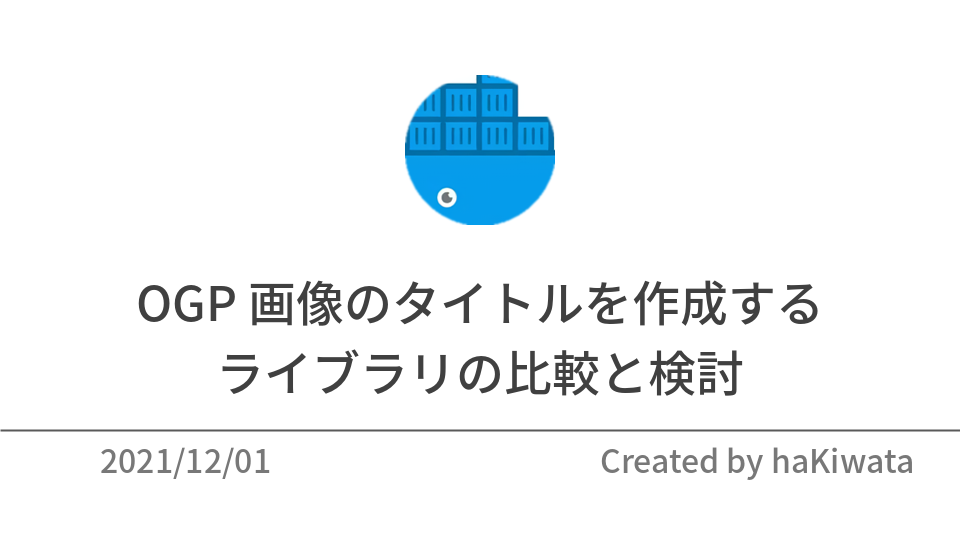
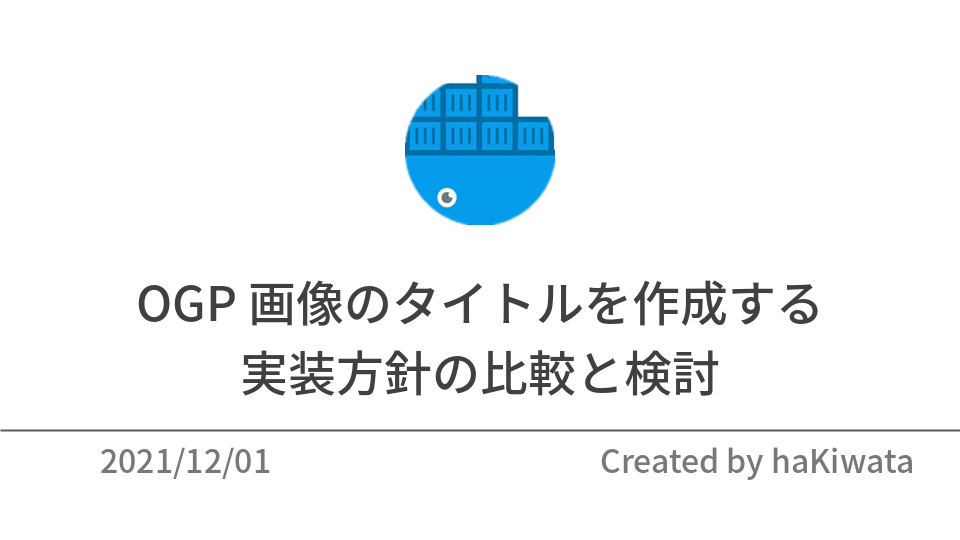
deploy: 28cf64bc0f5ebd8594af1927d249c6c6cfbd774a

Changed region(s): [[0.2188, 0.6519, 0.7812, 0.7407]]

diff --git a/post/20211201/index.html b/post/20211201/index.html
@@ -1,15 +1,15 @@
 <!doctype html><html lang=en><head><meta charset=utf-8><meta name=viewport content="width=device-width,initial-scale=1"><meta name=generator content="Hugo 0.83.1"><title>OGP 画像のタイトルを作成する
-ライブラリの比較と検討 - haKiwata</title><meta name=description content="概要  この自作ブログの OGP 画像は Python と GitHub Actions を使って自動生成するようになっています。ブログのタイトルを使用して良い感じに調整することで、OGP 画像のタイトルをつけます。しかし、先日投稿したブログの OGP 画像のタイトルのレイアウトが崩れていました。そこで、今回は OGP 画像のタイトルをつけるための実装方針を再度考え直します。そして、実装に必要なライブラリの比較と検討を行いたいと思います。  事の発端 (原因) とライブラリの比較と検討を行おうと思った背景  CyberAgent のコンテナ技術に関する勉強会に参加してきた の OGP 画像が意図した形になっていませんでした。以下の図 1 の画像が実際に生成されていた OPG 画像で、図 2 のような画像が生成されて欲しかった画像です。  図 1 タイトルのレイアウトがズレてしまった OGP 画像 図 2 タイトルのレイアウトが納得行く形の OGP 画像   図 2 では、タイトルの 2 行目が長くなりすぎてしまい、端の文字が切れてしまっています。そこでまず、現時点での OGP 画像を生成するためのロジックについて説明したいと思います。
+実装方針の比較と検討 - haKiwata</title><meta name=description content="概要  この自作ブログの OGP 画像は Python と GitHub Actions を使って自動生成するようになっています。ブログのタイトルを使用して良い感じに調整することで、OGP 画像のタイトルをつけます。しかし、先日投稿したブログの OGP 画像のタイトルのレイアウトが崩れていました。そこで、今回は OGP 画像のタイトルをつけるための実装方針を再度考え直します。そして、実装に必要なライブラリの比較と検討を行いたいと思います。  事の発端 (原因) とライブラリの比較と検討を行おうと思った背景  先日投稿したブログエントリの CyberAgent のコンテナ技術に関する勉強会に参加してきた の OGP 画像が意図した形になっていませんでした。以下の図 1 の画像が実際に生成されていた OPG 画像で、図 2 のような画像が生成されて欲しかった画像です。  図 1 タイトルのレイアウトがズレてしまった OGP 画像 図 2 タイトルのレイアウトが良い感じの形の OGP 画像   図 2 では、日本語の文脈的にもレイアウト的にも良い感じの箇所で改行されています。一方、図 1 では、タイトルの 2 行目が長くなりすぎてしまい、端の文字が切れてしまっています。そこでまず、現時点での OGP 画像を生成するためのロジックについて説明したいと思います。
   まず、タイトルがそれほど長くない場合 (30 文字以内) には、そのままタイトルを付けるようにしています。しかし、タイトルが 30 文字より大きくなると、改行処理を挟んでタイトルを付けるような実装になっています。この改行処理には、textwrap という Python の標準ライブラリを活用しています。つまり、タイトルが 30 文字以上の場合には、textwrap のアルゴリズムに従ってタイトルの分割処理が行われます。その分割処理によって、改行させてタイトルを付けます。
   これに加えて、Hugo のフロントマターに追加するフラグに応じた改行処理も実装されています。Hugo のフロントマターのタイトルの箇所に改行用のフラグ (\n) を追加すると、それを起点に改行された OGP 画像が生成されます。つまり、手動でタイトルの改行箇所を決めることができます。"><link rel="shortcut icon" href=https://hakiwata.jp/img/images/favicon.ico><link rel=stylesheet href=https://hakiwata.jp/css/ui.css><link rel=stylesheet href=https://hakiwata.jp/css/main.css><link rel=stylesheet href="https://fonts.googleapis.com/css?family=Fira+Mono|Lato|Raleway"><meta property="og:title" content="OGP 画像のタイトルを作成する
-ライブラリの比較と検討"><meta property="og:description" content="概要  この自作ブログの OGP 画像は Python と GitHub Actions を使って自動生成するようになっています。ブログのタイトルを使用して良い感じに調整することで、OGP 画像のタイトルをつけます。しかし、先日投稿したブログの OGP 画像のタイトルのレイアウトが崩れていました。そこで、今回は OGP 画像のタイトルをつけるための実装方針を再度考え直します。そして、実装に必要なライブラリの比較と検討を行いたいと思います。  事の発端 (原因) とライブラリの比較と検討を行おうと思った背景  CyberAgent のコンテナ技術に関する勉強会に参加してきた の OGP 画像が意図した形になっていませんでした。以下の図 1 の画像が実際に生成されていた OPG 画像で、図 2 のような画像が生成されて欲しかった画像です。  図 1 タイトルのレイアウトがズレてしまった OGP 画像 図 2 タイトルのレイアウトが納得行く形の OGP 画像   図 2 では、タイトルの 2 行目が長くなりすぎてしまい、端の文字が切れてしまっています。そこでまず、現時点での OGP 画像を生成するためのロジックについて説明したいと思います。
+実装方針の比較と検討"><meta property="og:description" content="概要  この自作ブログの OGP 画像は Python と GitHub Actions を使って自動生成するようになっています。ブログのタイトルを使用して良い感じに調整することで、OGP 画像のタイトルをつけます。しかし、先日投稿したブログの OGP 画像のタイトルのレイアウトが崩れていました。そこで、今回は OGP 画像のタイトルをつけるための実装方針を再度考え直します。そして、実装に必要なライブラリの比較と検討を行いたいと思います。  事の発端 (原因) とライブラリの比較と検討を行おうと思った背景  先日投稿したブログエントリの CyberAgent のコンテナ技術に関する勉強会に参加してきた の OGP 画像が意図した形になっていませんでした。以下の図 1 の画像が実際に生成されていた OPG 画像で、図 2 のような画像が生成されて欲しかった画像です。  図 1 タイトルのレイアウトがズレてしまった OGP 画像 図 2 タイトルのレイアウトが良い感じの形の OGP 画像   図 2 では、日本語の文脈的にもレイアウト的にも良い感じの箇所で改行されています。一方、図 1 では、タイトルの 2 行目が長くなりすぎてしまい、端の文字が切れてしまっています。そこでまず、現時点での OGP 画像を生成するためのロジックについて説明したいと思います。
   まず、タイトルがそれほど長くない場合 (30 文字以内) には、そのままタイトルを付けるようにしています。しかし、タイトルが 30 文字より大きくなると、改行処理を挟んでタイトルを付けるような実装になっています。この改行処理には、textwrap という Python の標準ライブラリを活用しています。つまり、タイトルが 30 文字以上の場合には、textwrap のアルゴリズムに従ってタイトルの分割処理が行われます。その分割処理によって、改行させてタイトルを付けます。
   これに加えて、Hugo のフロントマターに追加するフラグに応じた改行処理も実装されています。Hugo のフロントマターのタイトルの箇所に改行用のフラグ (\n) を追加すると、それを起点に改行された OGP 画像が生成されます。つまり、手動でタイトルの改行箇所を決めることができます。"><meta property="og:type" content="article"><meta property="og:url" content="https://hakiwata.jp/post/20211201/"><meta property="og:image" content="https://hakiwata.jp/"><meta property="article:section" content="post"><meta property="article:published_time" content="2021-12-01T09:27:59+00:00"><meta property="article:modified_time" content="2021-12-01T09:27:59+00:00"><meta name=twitter:card content="summary_large_image"><meta name=twitter:site content="@bilmnpvovqnmlid"><meta name=twitter:creator content="@bilmnpvovqnmlid"><meta property="twitter:image" content="https://hakiwata.jp/img/images/20211201.png"><meta property="og:title" content="OGP 画像のタイトルを作成する
-ライブラリの比較と検討"><meta property="og:url" content="https://hakiwata.jp/post/20211201/"><meta property="og:image" content="https://hakiwata.jp/img/images/20211201.png"><meta property="og:description" content><script async src="https://www.googletagmanager.com/gtag/js?id=G-YXCYPL25QW"></script><script>var doNotTrack=!1;if(!doNotTrack){window.dataLayer=window.dataLayer||[];function gtag(){dataLayer.push(arguments)}gtag('js',new Date),gtag('config','G-YXCYPL25QW',{anonymize_ip:!1})}</script></head><body><header class="container no-print"><div class=u-header><nav class=bar><ul><li><a href=https://hakiwata.jp/><img class=icon-text src=https://hakiwata.jp/img/prev.svg></a></li><li><a href=https://hakiwata.jp/about>About</a></li><li><a href=https://hakiwata.jp/log>Log</a></li><li><a href=https://hakiwata.jp/post>Post</a></li><li><a href=https://hakiwata.jp/scraps>Scraps</a></li><li><a href=https://hakiwata.jp/tags>Tags</a></li></ul></nav></div></header><main class=container><article><header><hgroup id=brand><h1>OGP 画像のタイトルを作成する
-ライブラリの比較と検討</h1><h5><time datetime="2021-12-01 09:27:59 +0000 UTC">Dec 01, 2021</time>
+実装方針の比較と検討"><meta property="og:url" content="https://hakiwata.jp/post/20211201/"><meta property="og:image" content="https://hakiwata.jp/img/images/20211201.png"><meta property="og:description" content><script async src="https://www.googletagmanager.com/gtag/js?id=G-YXCYPL25QW"></script><script>var doNotTrack=!1;if(!doNotTrack){window.dataLayer=window.dataLayer||[];function gtag(){dataLayer.push(arguments)}gtag('js',new Date),gtag('config','G-YXCYPL25QW',{anonymize_ip:!1})}</script></head><body><header class="container no-print"><div class=u-header><nav class=bar><ul><li><a href=https://hakiwata.jp/><img class=icon-text src=https://hakiwata.jp/img/prev.svg></a></li><li><a href=https://hakiwata.jp/about>About</a></li><li><a href=https://hakiwata.jp/log>Log</a></li><li><a href=https://hakiwata.jp/post>Post</a></li><li><a href=https://hakiwata.jp/scraps>Scraps</a></li><li><a href=https://hakiwata.jp/tags>Tags</a></li></ul></nav></div></header><main class=container><article><header><hgroup id=brand><h1>OGP 画像のタイトルを作成する
+実装方針の比較と検討</h1><h5><time datetime="2021-12-01 09:27:59 +0000 UTC">Dec 01, 2021</time>
 <span class=no-print>-
 <a href=https://hakiwata.jp/tags/python>Python</a>
-<span></h5></hgroup><hr class=sep></header><h2 id=概要>概要</h2><ul><li>この自作ブログの OGP 画像は Python と GitHub Actions を使って自動生成するようになっています。ブログのタイトルを使用して良い感じに調整することで、OGP 画像のタイトルをつけます。しかし、<a href=https://hakiwata.jp/post/20211124/>先日投稿したブログ</a>の OGP 画像のタイトルのレイアウトが崩れていました。そこで、今回は OGP 画像のタイトルをつけるための実装方針を再度考え直します。そして、実装に必要なライブラリの比較と検討を行いたいと思います。</li></ul><h2 id=事の発端-原因-とライブラリの比較と検討を行おうと思った背景>事の発端 (原因) とライブラリの比較と検討を行おうと思った背景</h2><ul><li><a href=https://hakiwata.jp/post/20211124/>CyberAgent のコンテナ技術に関する勉強会に参加してきた</a> の OGP 画像が意図した形になっていませんでした。以下の図 1 の画像が実際に生成されていた OPG 画像で、図 2 のような画像が生成されて欲しかった画像です。</li></ul><p><img alt="図 1 タイトルのレイアウトがズレてしまった OGP 画像" src=fig_1.png width=80% height=80%><div align=center>図 1 タイトルのレイアウトがズレてしまった OGP 画像</div><br><img alt="図 2 タイトルのレイアウトが納得行く形の OGP 画像" src=fig_2.png width=80% height=80%><div align=center>図 2 タイトルのレイアウトが納得行く形の OGP 画像</div><br></p><ul><li><p>図 2 では、タイトルの 2 行目が長くなりすぎてしまい、端の文字が切れてしまっています。そこでまず、現時点での OGP 画像を生成するためのロジックについて説明したいと思います。</p></li><li><p>まず、タイトルがそれほど長くない場合 (30 文字以内) には、そのままタイトルを付けるようにしています。しかし、タイトルが 30 文字より大きくなると、改行処理を挟んでタイトルを付けるような実装になっています。この改行処理には、<a href=https://docs.python.org/ja/3/library/textwrap.html>textwrap</a> という Python の標準ライブラリを活用しています。つまり、タイトルが 30 文字以上の場合には、<a href=https://docs.python.org/ja/3/library/textwrap.html>textwrap</a> のアルゴリズムに従ってタイトルの分割処理が行われます。その分割処理によって、改行させてタイトルを付けます。</p></li><li><p>これに加えて、Hugo のフロントマターに追加するフラグに応じた改行処理も実装されています。Hugo のフロントマターのタイトルの箇所に改行用のフラグ (<code>\n</code>) を追加すると、それを起点に改行された OGP 画像が生成されます。つまり、手動でタイトルの改行箇所を決めることができます。</p></li><li><p>まとめると、<a href=https://docs.python.org/ja/3/library/textwrap.html>textwrap</a> と Hugo のフロントマターに改行用のフラグ (<code>\n</code>) を追加する 2 つの方式のハイブリッドで OGP のタイトルを付けるような実装になっていました。</p></li><li><p>しかし、この前者の実装では、<code>width=30</code> を指定して、<a href=https://docs.python.org/ja/3/library/textwrap.html#textwrap.wrap>textwrap.wrap()</a> を呼び出しています。この <code>width</code> のパラメータは、与えられた引数の文字列の各行が <code>width</code> 以下になるように wrap されます。タイトルが <code>width</code> 以下だと特に問題は生じません。しかし、適用するタイトルによっては、変な箇所で改行処理が行われることが明らかになりました。例えば、<code>CyberAgent のコンテナ技術に関する勉強会に参加してきた</code> は、<code>CyberAgent</code> と <code>のコンテナ技術に関する勉強会に参加してきた</code> に分割されます。自分は標準ライブラリの内部の実装をそれほど考慮せず OGP 画像のタイトルを付けるためのロジックを実装していました。そのため、てっきり <code>CyberAgent のコンテナ技術に関する勉強会に参加して</code> と <code>きた</code> に分割されるものと思っていました。これは、前半部分が 30 文字で後半部分が 2 文字だからです。たとえそうだったとしても、意図した挙動ではなかったのですが &mldr;</p></li><li><p>そこで、これらを踏まえて、再度 OGP 画像のタイトルを付けるためのロジックやライブラリを再度調査することにしました。そして、調査した実装方針を比較検討することにしました。</p></li></ul><h2 id=実装の方針の洗い出し>実装の方針の洗い出し</h2><ul><li><p>OGP 画像にタイトルを付けるための実装方法を以下にまとめました。現時点での実装は、自動で行う方法の 1 と手動で行う方法の 1 のハイブリッドな実装となっています。</p></li><li><p>自動で行う方法</p><ol><li><a href=https://github.com/python/cpython/blob/3.9/Lib/textwrap.py>textwrap</a> を活用して雑に改行させる</li><li><a href=https://github.com/python/cpython/blob/3.9/Lib/textwrap.py>textwrap</a> を拡張して好みの形で改行させる</li><li><a href=https://github.com/google/budoux>google/budoux</a> を活用してタイトルを日本語として意味のある形に分割して、改行させる</li></ol></li><li><p>手動で行う方法</p><ol><li>Hugo のフロントマターのタイトルに改行させたい箇所に <code>\n</code> を差し込み、Python の OGP 画像を作成するスクリプトで改行させる</li></ol></li><li><p>自動で行う方法の 3 の <a href=https://github.com/google/budoux>google/budoux</a> というライブラリは、<a href="https://twitter.com/tushuhei/status/1461184410473033742?s=20">Twitter</a> で知りました。これは、機械学習を活用した文章を意味のある単位に分割するライブラリです。README.md にも書かれているように、例えば <code>あなたに寄り添う最先端のテクノロジー。</code> という文字列をこのライブラリを用いて分割するとします。その結果、<code>あなたに</code> と <code>寄り添う</code> と <code>最先端の</code> と <code>テクノロジー。</code> に分割されます。こうして日本語の文章を意味のある単位に分割することが確認できます。この結果から、<a href=https://github.com/google/budoux>google/budoux</a> はこのブログに応用できるのではないかと思い、以前から試したいと思っていました。</p></li></ul><h2 id=実装の方針の比較>実装の方針の比較</h2><ul><li><p>ここでは、前章で述べた各実装方針のメリットとデメリットについて考えたいと思います。</p></li><li><p>自動で行う方法の 1</p><ul><li>よくよく考えると、必要ありません。2 行以上になると日本語の文脈的に意味のある箇所で改行させる必要があります。そのため、<code>textwrap.wrap()</code> のデフォルトのアルゴリズムでは今回のように上手くいかないケースがどうしても出てきてしまうためです。</li></ul></li><li><p>自動で行う方法の 2</p><ul><li>デフォルトのアルゴリズムを書き換えたり拡張しても、意味のある箇所で改行させるには、結局自然言語処理が必要となってきます。そのため、そういったロジックを自前で実装することは難しいと判断しました。</li></ul></li><li><p>自動で行う方法の 3</p><ul><li><a href=https://github.com/google/budoux>google/budoux</a> を活用すると、ブログのタイトルを意味のある単位で分割することができます。しかし、分割させた単位でどう結合させた上で改行させるかには好みが出てしまいます。そのため、このライブラリを活用したとしても OGP 画像の生成の自動化は難しいと思いました。</li></ul></li><li><p>手動で行う方法の 1</p><ul><li>Hugo のフロントマターに改行させたい箇所に <code>\n</code> を追加し、それに応じて OGP 画像のタイトルの改行処理を行います。この方法は、手動で行うため、タイトルが長い場合には、改行フラグを追加するのを忘れないようにしないといけません。しかし、自分好みの箇所で OGP 画像にタイトルを付けられるメリットがあります。また、このタイトルを手動で付けるロジックはすでに実装済みです。したがって、タイトルがどうしても長くなる場合には、<code>\n</code> を差し込むのを忘れないようにして、運用でカバーするようにします。</li></ul></li></ul><h2 id=実装の方針の比較と検討-結論>実装の方針の比較と検討 (結論)</h2><ul><li>タイトルが長くなる場合には、手動で <code>\n</code> を追加し、日本語として違和感の感じない箇所に改行フラグを追加することで、OGP 画像のタイトルを生成するような実装に落ち着きました。つまり、実装はそのままで、運用でカバーするようにします。</li></ul><h2 id=最後に>最後に</h2><ul><li>OGP 画像のタイトルを作成するライブラリの比較と検討に当たって <a href=https://github.com/python/cpython/blob/3.9/Lib/textwrap.py>textwrap</a> や <a href=https://github.com/google/budoux>google/budoux</a> の実装をソースコードレベルで追ったりしました。その調査は大変面白かったので、その内容に関しては、別の記事でまとめたいと思います。</li></ul><h2 id=参考>参考</h2><ul><li><a href=https://github.com/python/cpython/blob/3.9/Lib/textwrap.py>textwrap</a></li><li><a href=https://github.com/google/budoux>google/budoux</a></li></ul></article><nav class="no-print post-nav"><a class=prev-post href=https://hakiwata.jp/post/20211124/><img class=icon-text src=https://hakiwata.jp/img/prev.svg>CyberAgent のコンテナ技術に関する
+<span></h5></hgroup><hr class=sep></header><h2 id=概要>概要</h2><ul><li>この自作ブログの OGP 画像は Python と GitHub Actions を使って自動生成するようになっています。ブログのタイトルを使用して良い感じに調整することで、OGP 画像のタイトルをつけます。しかし、<a href=https://hakiwata.jp/post/20211124/>先日投稿したブログ</a>の OGP 画像のタイトルのレイアウトが崩れていました。そこで、今回は OGP 画像のタイトルをつけるための実装方針を再度考え直します。そして、実装に必要なライブラリの比較と検討を行いたいと思います。</li></ul><h2 id=事の発端-原因-とライブラリの比較と検討を行おうと思った背景>事の発端 (原因) とライブラリの比較と検討を行おうと思った背景</h2><ul><li>先日投稿したブログエントリの <a href=https://hakiwata.jp/post/20211124/>CyberAgent のコンテナ技術に関する勉強会に参加してきた</a> の OGP 画像が意図した形になっていませんでした。以下の図 1 の画像が実際に生成されていた OPG 画像で、図 2 のような画像が生成されて欲しかった画像です。</li></ul><p><img alt="図 1 タイトルのレイアウトがズレてしまった OGP 画像" src=fig_1.png width=80% height=80%><div align=center>図 1 タイトルのレイアウトがズレてしまった OGP 画像</div><br><img alt="図 2 タイトルのレイアウトが良い感じの形の OGP 画像" src=fig_2.png width=80% height=80%><div align=center>図 2 タイトルのレイアウトが良い感じの形の OGP 画像</div><br></p><ul><li><p>図 2 では、日本語の文脈的にもレイアウト的にも良い感じの箇所で改行されています。一方、図 1 では、タイトルの 2 行目が長くなりすぎてしまい、端の文字が切れてしまっています。そこでまず、現時点での OGP 画像を生成するためのロジックについて説明したいと思います。</p></li><li><p>まず、タイトルがそれほど長くない場合 (30 文字以内) には、そのままタイトルを付けるようにしています。しかし、タイトルが 30 文字より大きくなると、改行処理を挟んでタイトルを付けるような実装になっています。この改行処理には、<a href=https://docs.python.org/ja/3/library/textwrap.html>textwrap</a> という Python の標準ライブラリを活用しています。つまり、タイトルが 30 文字以上の場合には、<a href=https://docs.python.org/ja/3/library/textwrap.html>textwrap</a> のアルゴリズムに従ってタイトルの分割処理が行われます。その分割処理によって、改行させてタイトルを付けます。</p></li><li><p>これに加えて、Hugo のフロントマターに追加するフラグに応じた改行処理も実装されています。Hugo のフロントマターのタイトルの箇所に改行用のフラグ (<code>\n</code>) を追加すると、それを起点に改行された OGP 画像が生成されます。つまり、手動でタイトルの改行箇所を決めることができます。</p></li><li><p>まとめると、<a href=https://docs.python.org/ja/3/library/textwrap.html>textwrap</a> と Hugo のフロントマターに改行用のフラグ (<code>\n</code>) を追加する 2 つの方式のハイブリッドで OGP のタイトルを付けるような実装になっていました。</p></li><li><p>しかし、この前者の実装では、<code>width=30</code> を指定して、<a href=https://docs.python.org/ja/3/library/textwrap.html#textwrap.wrap>textwrap.wrap()</a> を呼び出しています。この <code>width</code> のパラメータは、与えられた引数の文字列の各行が <code>width</code> 以下になるように wrap されます。タイトルが <code>width</code> 以下だと特に問題は生じません。しかし、適用するタイトルによっては、変な箇所で改行処理が行われることが明らかになりました。例えば、<code>CyberAgent のコンテナ技術に関する勉強会に参加してきた</code> は、<code>CyberAgent</code> と <code>のコンテナ技術に関する勉強会に参加してきた</code> に分割されます。自分は標準ライブラリの内部の実装をそれほど考慮せず OGP 画像のタイトルを付けるためのロジックを実装していました。そのため、てっきり <code>CyberAgent のコンテナ技術に関する勉強会に参加して</code> と <code>きた</code> に分割されるものと思っていました。これは、前半部分が 30 文字で後半部分が 2 文字だからです。たとえそうだったとしても、意図した挙動ではなかったのですが &mldr;</p></li><li><p>そこで、これらを踏まえて、再度 OGP 画像のタイトルを付けるためのロジックやライブラリを再度調査することにしました。そして、調査した実装方針を比較検討することにしました。</p></li></ul><h2 id=実装の方針の洗い出し>実装の方針の洗い出し</h2><ul><li><p>OGP 画像にタイトルを付けるために洗い出した実装方法を以下にまとめました。現時点での実装は、自動で行う方法の 1 と手動で行う方法の 1 のハイブリッドな実装となっています。</p></li><li><p>自動で行う方法</p><ol><li><a href=https://github.com/python/cpython/blob/3.9/Lib/textwrap.py>textwrap</a> を活用して雑に改行させる</li><li><a href=https://github.com/python/cpython/blob/3.9/Lib/textwrap.py>textwrap</a> を拡張して好みの形で改行させる</li><li><a href=https://github.com/google/budoux>google/budoux</a> を活用してタイトルを日本語として意味のある形に分割して改行させる</li></ol></li><li><p>手動で行う方法</p><ol><li>Hugo のフロントマターのタイトルに改行させたい箇所に <code>\n</code> を差し込み、Python の OGP 画像を作成するスクリプトで改行させる</li></ol></li><li><p>自動で行う方法の 3 の <a href=https://github.com/google/budoux>google/budoux</a> というライブラリは、<a href="https://twitter.com/tushuhei/status/1461184410473033742?s=20">Twitter</a> で知りました。これは、機械学習を活用した文章を意味のある単位に分割するライブラリです。README.md にも書かれているように、例えば <code>あなたに寄り添う最先端のテクノロジー。</code> という文字列をこのライブラリを用いて分割するとします。その結果、<code>あなたに</code> と <code>寄り添う</code> と <code>最先端の</code> と <code>テクノロジー。</code> に分割されます。こうして日本語の文章を意味のある単位に分割することが確認できます。この結果から、<a href=https://github.com/google/budoux>google/budoux</a> はこのブログの OGP 画像の生成に応用できるのではないかと思い、以前から試したいと思っていました。</p></li></ul><h2 id=実装の方針の比較>実装の方針の比較</h2><ul><li><p>ここでは、前章で述べた各実装方針のメリットとデメリットについて考えたいと思います。</p></li><li><p>自動で行う方法の 1</p><ul><li>よくよく考えると、必要ありません。2 行以上になると日本語の文脈的に意味のある箇所で改行させる必要があります。そのため、<code>textwrap.wrap()</code> のデフォルトのアルゴリズムでは今回のように上手くいかないケースがどうしても出てきてしまうためです。</li></ul></li><li><p>自動で行う方法の 2</p><ul><li>デフォルトのアルゴリズムを書き換えたり拡張しても、意味のある箇所で改行させるには、結局自然言語処理が必要となってきます。そのため、そういったロジックを自前で実装することは難しいと判断しました。</li></ul></li><li><p>自動で行う方法の 3</p><ul><li><a href=https://github.com/google/budoux>google/budoux</a> を活用すると、ブログのタイトルを意味のある単位で分割することができます。しかし、分割させた単位でどう結合させた上で改行させるかには好みが出てしまいます。そのため、このライブラリを活用したとしても OGP 画像の生成の自動化は難しいと思いました。</li></ul></li><li><p>手動で行う方法の 1</p><ul><li>Hugo のフロントマターに改行させたい箇所に <code>\n</code> を追加し、それに応じて OGP 画像のタイトルの改行処理を行います。この方法は、手動で行うため、タイトルが長い場合には、改行フラグを追加するのを忘れないようにしないといけません。しかし、自分好みの箇所で OGP 画像にタイトルを付けられるメリットがあります。また、このタイトルを手動で付けるロジックはすでに実装済みです。したがって、タイトルがどうしても長くなる場合には、<code>\n</code> を差し込むのを忘れないようにして、運用でカバーするようにします。</li></ul></li></ul><h2 id=実装の方針の比較と検討-結論>実装の方針の比較と検討 (結論)</h2><ul><li>タイトルが長くなる場合には、手動で <code>\n</code> を追加し、日本語として違和感の感じない箇所に改行フラグを追加することで、OGP 画像のタイトルを生成するような実装に落ち着きました。つまり、実装はそのままで、運用でカバーするようにします。</li></ul><h2 id=最後に>最後に</h2><ul><li>OGP 画像のタイトルを作成するライブラリの比較と検討に当たって <a href=https://github.com/python/cpython/blob/3.9/Lib/textwrap.py>textwrap</a> や <a href=https://github.com/google/budoux>google/budoux</a> の実装をソースコードレベルで追ったりしました。その調査は大変面白かったので、その内容に関しては、別の記事でまとめたいと思います。</li></ul><h2 id=参考>参考</h2><ul><li><a href=https://docs.python.org/ja/3/library/textwrap.html#module-textwrap>textwrap &mdash; テキストの折り返しと詰め込み</a></li><li><a href=https://github.com/python/cpython/blob/3.9/Lib/textwrap.py>textwrap</a></li><li><a href=https://github.com/google/budoux>google/budoux</a></li></ul></article><nav class="no-print post-nav"><a class=prev-post href=https://hakiwata.jp/post/20211124/><img class=icon-text src=https://hakiwata.jp/img/prev.svg>CyberAgent のコンテナ技術に関する
 勉強会に参加してきた</a></nav><section id=related><h4>See Also</h4><ul><li><a href=https://hakiwata.jp/log/cpython/>CPython 調査ログ</a></li><li><a href=https://hakiwata.jp/post/20211110/>このブログで使用した技術について</a></li><li><a href=https://hakiwata.jp/post/20210911/>自作 OS のリポジトリの README.md を自動更新する</a></li></ul></section><hr class=sep></main><footer class="container no-print"><div class=u-footer><a href=https://github.com/dilmnqvovpnmlib><img class=icon-social src=https://hakiwata.jp/img/github.svg alt=Github></a>
 <a href=https://twitter.com/bilmnpvovqnmlid><img class=icon-social src=https://hakiwata.jp/img/twitter.svg alt=Twitter></a>
 <a href=https://hakiwata.jp/index.xml target=_blank><img class=icon-social src=https://hakiwata.jp/img/feed.svg alt=Feed></a><p>&copy; 2021 haKiwata</p><a href=#brand><img class=icon-text src=https://hakiwata.jp/img/toup.svg alt="To Up">

diff --git a/post/20211124/index.html b/post/20211124/index.html
@@ -9,7 +9,7 @@
 <a href=https://hakiwata.jp/tags/kubernetes>Kubernetes</a>
 <span></h5></hgroup><hr class=sep></header><h2 id=概要>概要</h2><ul><li>先日 2021/11/24 に CyberAgent が主催する<a href="https://www.cyberagent.co.jp/careers/students/career_event/detail/id=26761">CA 1Day Youth Boot Camp バックエンド/インフラエンジニア編：現場で使うコンテナ技術、Kubernetes＆コンテナ入門</a>と言う勉強会に参加してきました。これは、CyberAgent での社内の研修を 1 日体験できるイベントでした。今回は、その参加記を書きたいと思います。</li></ul><p><img src=CA_1Day_Youth_Boot_Camp.jpg alt=CA_1Day_Youth_Boot_Camp.jpg></p><h2 id=参加したキッカケ>参加したキッカケ</h2><ul><li>普段から Docker や Kubenetes を活用して趣味のプログラムや研究のコードを書いたりしています。しかし、これまでこれらの技術はほとんど独学で勉強をしてきました。そのため、自分の理解のレベル感が客観的に把握したことがありませんでした。また、最近 ES を書いたり外部の勉強会に参加するといった活動をしていませんでした。そんな時に、Twitter でたまたまこのイベントを見つけ、久しぶりにこういったチャンスに挑んでみたいと思い参加してみました。</li></ul><h2 id=学んだこと>学んだこと</h2><ul><li><a href=https://speakerdeck.com/bo0km4n/ca-1day-youth-bootcamp-ciu-kubernetes>Kubernetes の基礎編</a> で Kubernetes の基本的なコンセプトや原理を復習できました。</li><li>コンテナレジストリのミラーリポジトリに <code>mirror.gcr.io</code> 活用すると、Docker Hub のレート制限を抑えることができることを初めて知りました。</li><li>Kubernetes in Docker (<a href=https://kind.sigs.k8s.io/>kind</a>) と言う Docker コンテナのノードを使ってローカルに Kubernetes クラスタを実行するためのツールを初めて知りました。</li><li><code>kubectl edit</code> コマンドや <code>kubectl run</code> コマンドを始めて使いました。</li><li>Kubernetes 内の Pod からしかアクセスできない Pod に対して、<a href=https://hub.docker.com/_/busybox>busybox</a> と <code>kubectl run</code> コマンドを用いたデバッグを初めて知りました。</li></ul><h2 id=感想>感想</h2><ul><li>学んだことに書いたように、知らなかったことをたくさん知るキッカケになりました。また、特に Kubernetes の研修に関しては、<a href=https://github.com/CyberAgentHack/one-day-youth-bootcamp-ciu>CyberAgentHack/one-day-youth-bootcamp-ciu</a> にある演習問題を解いて手を動かす時間も設けられていたので、とても楽しかったです！ (演習問題は簡単でした。) しかし、この勉強会で学んだことと実際に現場で必要な知識や技術力にはかなり乖離があると感じました。そのため、Kubernetes を実際に運用するレベルのアプリケーションの実装を検討してみたいと思いました🤞</li></ul><h2 id=参考>参考</h2><ul><li><a href=https://speakerdeck.com/zuiurs/ca-1day-youth-boot-camp-introduction-to-container-technology>コンテナ技術入門</a></li><li><a href=https://speakerdeck.com/bo0km4n/ca-1day-youth-bootcamp-ciu-kubernetes>Kubernetes の基礎編</a></li><li><a href=https://github.com/CyberAgentHack/one-day-youth-bootcamp-ciu>CyberAgentHack/one-day-youth-bootcamp-ciu</a></li><li><a href="https://cloud.google.com/container-registry/docs/using-dockerhub-mirroring?hl=ja#cli">Container Registry の Docker Hub ミラーの使用</a></li><li><a href=https://kind.sigs.k8s.io/>kind</a></li><li><a href=https://hub.docker.com/_/busybox>busybox</a></li><li><a href=https://kazuhira-r.hatenablog.com/entry/2020/11/13/004940>どのリクエストにも決まったレスポンスを返す、http-echoサーバー</a></li></ul></article><nav class="no-print post-nav"><a class=prev-post href=https://hakiwata.jp/post/20211110/><img class=icon-text src=https://hakiwata.jp/img/prev.svg>このブログで使用した技術について</a>
 <a class=next-post href=https://hakiwata.jp/post/20211201/>OGP 画像のタイトルを作成する
-ライブラリの比較と検討<img class=icon-text src=https://hakiwata.jp/img/next.svg></a></nav><section id=related><h4>See Also</h4><ul><li><a href=https://hakiwata.jp/post/20211110/>このブログで使用した技術について</a></li><li><a href=https://hakiwata.jp/post/20210628/>自作ブログの開発環境を
+実装方針の比較と検討<img class=icon-text src=https://hakiwata.jp/img/next.svg></a></nav><section id=related><h4>See Also</h4><ul><li><a href=https://hakiwata.jp/post/20211110/>このブログで使用した技術について</a></li><li><a href=https://hakiwata.jp/post/20210628/>自作ブログの開発環境を
 Docker で移行した</a></li></ul></section><hr class=sep></main><footer class="container no-print"><div class=u-footer><a href=https://github.com/dilmnqvovpnmlib><img class=icon-social src=https://hakiwata.jp/img/github.svg alt=Github></a>
 <a href=https://twitter.com/bilmnpvovqnmlid><img class=icon-social src=https://hakiwata.jp/img/twitter.svg alt=Twitter></a>
 <a href=https://hakiwata.jp/index.xml target=_blank><img class=icon-social src=https://hakiwata.jp/img/feed.svg alt=Feed></a><p>&copy; 2021 haKiwata</p><a href=#brand><img class=icon-text src=https://hakiwata.jp/img/toup.svg alt="To Up">

diff --git a/tags/python/index.html b/tags/python/index.html
@@ -1,6 +1,6 @@
 <!doctype html><html lang=en><head><meta charset=utf-8><meta name=viewport content="width=device-width,initial-scale=1"><meta name=generator content="Hugo 0.83.1"><title>Python - haKiwata</title><meta name=description content><link rel="shortcut icon" href=https://hakiwata.jp/img/images/favicon.ico><link rel=stylesheet href=https://hakiwata.jp/css/ui.css><link rel=stylesheet href=https://hakiwata.jp/css/main.css><link rel=stylesheet href="https://fonts.googleapis.com/css?family=Fira+Mono|Lato|Raleway"><meta property="og:title" content="Python"><meta property="og:description" content="haKiwata's Website."><meta property="og:type" content="website"><meta property="og:url" content="https://hakiwata.jp/tags/python/"><meta property="og:image" content="https://hakiwata.jp/"><meta name=twitter:card content="summary_large_image"><meta name=twitter:site content="@bilmnpvovqnmlid"><meta name=twitter:creator content="@bilmnpvovqnmlid"><meta property="twitter:image" content="https://hakiwata.jp/img/images/kiwata_partly.png"><meta property="og:title" content="Python"><meta property="og:url" content="https://hakiwata.jp/tags/python/"><meta property="og:image" content="https://hakiwata.jp/img/images/kiwata_partly.png"><meta property="og:description" content><script async src="https://www.googletagmanager.com/gtag/js?id=G-YXCYPL25QW"></script><script>var doNotTrack=!1;if(!doNotTrack){window.dataLayer=window.dataLayer||[];function gtag(){dataLayer.push(arguments)}gtag('js',new Date),gtag('config','G-YXCYPL25QW',{anonymize_ip:!1})}</script></head><body><header class="container no-print"><div class=u-header><nav class=bar><ul><li><a href=https://hakiwata.jp/><img class=icon-text src=https://hakiwata.jp/img/prev.svg></a></li><li><a href=https://hakiwata.jp/about>About</a></li><li><a href=https://hakiwata.jp/log>Log</a></li><li><a href=https://hakiwata.jp/post>Post</a></li><li><a href=https://hakiwata.jp/scraps>Scraps</a></li><li><a href=https://hakiwata.jp/tags>Tags</a></li></ul></nav></div></header><main class=container><article><header><hgroup id=brand><h1>Python</h1></hgroup><hr class=sep></header><ul class=no-bullet><li><span><time datetime="2021-12-01 09:27:59 +0000 UTC">Dec 01, 2021</time></span>
 <a href=https://hakiwata.jp/post/20211201/>OGP 画像のタイトルを作成する
-ライブラリの比較と検討</a></li><li><span><time datetime="2021-11-17 09:20:23 +0000 UTC">Nov 17, 2021</time></span>
+実装方針の比較と検討</a></li><li><span><time datetime="2021-11-17 09:20:23 +0000 UTC">Nov 17, 2021</time></span>
 <a href=https://hakiwata.jp/log/cpython/>CPython 調査ログ</a></li><li><span><time datetime="2021-11-10 11:17:18 +0000 UTC">Nov 10, 2021</time></span>
 <a href=https://hakiwata.jp/post/20211110/>このブログで使用した技術について</a></li><li><span><time datetime="2021-09-10 15:50:53 +0000 UTC">Sep 10, 2021</time></span>
 <a href=https://hakiwata.jp/post/20210911/>自作 OS のリポジトリの README.md を自動更新する</a></li></ul></article><hr class=sep></main><footer class="container no-print"><div class=u-footer><a href=https://github.com/dilmnqvovpnmlib><img class=icon-social src=https://hakiwata.jp/img/github.svg alt=Github></a>

diff --git a/post/index.html b/post/index.html
@@ -1,6 +1,6 @@
 <!doctype html><html lang=en><head><meta charset=utf-8><meta name=viewport content="width=device-width,initial-scale=1"><meta name=generator content="Hugo 0.83.1"><title>Blog - haKiwata</title><meta name=description content><link rel="shortcut icon" href=https://hakiwata.jp/img/images/favicon.ico><link rel=stylesheet href=https://hakiwata.jp/css/ui.css><link rel=stylesheet href=https://hakiwata.jp/css/main.css><link rel=stylesheet href="https://fonts.googleapis.com/css?family=Fira+Mono|Lato|Raleway"><meta property="og:title" content="Blog"><meta property="og:description" content="haKiwata's Website."><meta property="og:type" content="website"><meta property="og:url" content="https://hakiwata.jp/post/"><meta property="og:image" content="https://hakiwata.jp/"><meta name=twitter:card content="summary_large_image"><meta name=twitter:site content="@bilmnpvovqnmlid"><meta name=twitter:creator content="@bilmnpvovqnmlid"><meta property="twitter:image" content="https://hakiwata.jp/img/images/kiwata_partly.png"><meta property="og:title" content="Blog"><meta property="og:url" content="https://hakiwata.jp/post/"><meta property="og:image" content="https://hakiwata.jp/img/images/kiwata_partly.png"><meta property="og:description" content><script async src="https://www.googletagmanager.com/gtag/js?id=G-YXCYPL25QW"></script><script>var doNotTrack=!1;if(!doNotTrack){window.dataLayer=window.dataLayer||[];function gtag(){dataLayer.push(arguments)}gtag('js',new Date),gtag('config','G-YXCYPL25QW',{anonymize_ip:!1})}</script></head><body><header class="container no-print"><div class=u-header><nav class=bar><ul><li><a href=https://hakiwata.jp/><img class=icon-text src=https://hakiwata.jp/img/prev.svg></a></li><li><a href=https://hakiwata.jp/about>About</a></li><li><a href=https://hakiwata.jp/log>Log</a></li><li><a href=https://hakiwata.jp/post>Post</a></li><li><a href=https://hakiwata.jp/scraps>Scraps</a></li><li><a href=https://hakiwata.jp/tags>Tags</a></li></ul></nav></div></header><main class=container><article><header><hgroup id=brand><h1>Blog</h1></hgroup><hr class=sep></header><ul class=no-bullet><li><span><time datetime="2021-12-01 09:27:59 +0000 UTC">Dec 01, 2021</time></span>
 <a href=https://hakiwata.jp/post/20211201/>OGP 画像のタイトルを作成する
-ライブラリの比較と検討</a></li><li><span><time datetime="2021-11-30 18:35:39 +0000 UTC">Nov 30, 2021</time></span>
+実装方針の比較と検討</a></li><li><span><time datetime="2021-11-30 18:35:39 +0000 UTC">Nov 30, 2021</time></span>
 <a href=https://hakiwata.jp/post/20211124/>CyberAgent のコンテナ技術に関する
 勉強会に参加してきた</a></li><li><span><time datetime="2021-11-10 11:17:18 +0000 UTC">Nov 10, 2021</time></span>
 <a href=https://hakiwata.jp/post/20211110/>このブログで使用した技術について</a></li><li><span><time datetime="2021-10-17 19:29:55 +0000 UTC">Oct 17, 2021</time></span>

diff --git a/index.html b/index.html
@@ -1,6 +1,6 @@
 <!doctype html><html lang=en><head><meta charset=utf-8><meta name=viewport content="width=device-width,initial-scale=1"><meta name=generator content="Hugo 0.83.1"><title>haKiwata</title><meta name=description content="haKiwata's Website."><link rel="shortcut icon" href=https://hakiwata.jp/img/images/favicon.ico><link rel=stylesheet href=https://hakiwata.jp/css/ui.css><link rel=stylesheet href=https://hakiwata.jp/css/main.css><link rel=stylesheet href="https://fonts.googleapis.com/css?family=Fira+Mono|Lato|Raleway"><meta property="og:title" content="haKiwata"><meta property="og:description" content="haKiwata's Website."><meta property="og:type" content="website"><meta property="og:url" content="https://hakiwata.jp/"><meta property="og:image" content="https://hakiwata.jp/"><meta name=twitter:card content="summary_large_image"><meta name=twitter:site content="@bilmnpvovqnmlid"><meta name=twitter:creator content="@bilmnpvovqnmlid"><meta property="twitter:image" content="https://hakiwata.jp/img/images/kiwata_partly.png"><meta property="og:title" content="haKiwata"><meta property="og:url" content="https://hakiwata.jp/"><meta property="og:image" content="https://hakiwata.jp/img/images/kiwata_partly.png"><meta property="og:description" content><script async src="https://www.googletagmanager.com/gtag/js?id=G-YXCYPL25QW"></script><script>var doNotTrack=!1;if(!doNotTrack){window.dataLayer=window.dataLayer||[];function gtag(){dataLayer.push(arguments)}gtag('js',new Date),gtag('config','G-YXCYPL25QW',{anonymize_ip:!1})}</script></head><body><header class="container no-print"><div class=u-header><nav class=bar><ul><li><a href=https://hakiwata.jp/about>About</a></li><li><a href=https://hakiwata.jp/log>Log</a></li><li><a href=https://hakiwata.jp/post>Post</a></li><li><a href=https://hakiwata.jp/scraps>Scraps</a></li><li><a href=https://hakiwata.jp/tags>Tags</a></li></ul></nav></div></header><main class=container><article><header><hgroup id=brand><h1>haKiwata</h1><h5>Welcome to my website !</h5></hgroup><hr class=sep></header><section><h4>Latest Posts</h4><ul class=no-bullet><li><span><time datetime="2021-12-01 09:27:59 +0000 UTC">Dec 01, 2021</time></span>
 <a href=https://hakiwata.jp/post/20211201/>OGP 画像のタイトルを作成する
-ライブラリの比較と検討</a></li><li><span><time datetime="2021-11-30 18:35:39 +0000 UTC">Nov 30, 2021</time></span>
+実装方針の比較と検討</a></li><li><span><time datetime="2021-11-30 18:35:39 +0000 UTC">Nov 30, 2021</time></span>
 <a href=https://hakiwata.jp/post/20211124/>CyberAgent のコンテナ技術に関する
 勉強会に参加してきた</a></li><li><span><time datetime="2021-11-10 11:17:18 +0000 UTC">Nov 10, 2021</time></span>
 <a href=https://hakiwata.jp/post/20211110/>このブログで使用した技術について</a></li><li><span><time datetime="2021-10-17 19:29:55 +0000 UTC">Oct 17, 2021</time></span>
